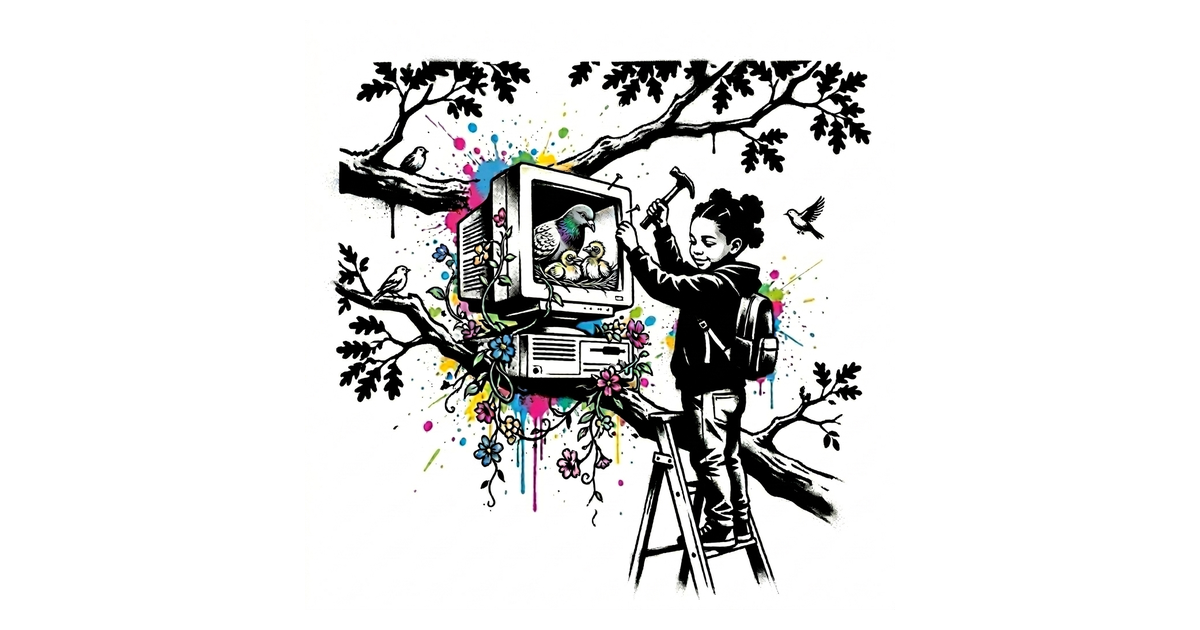
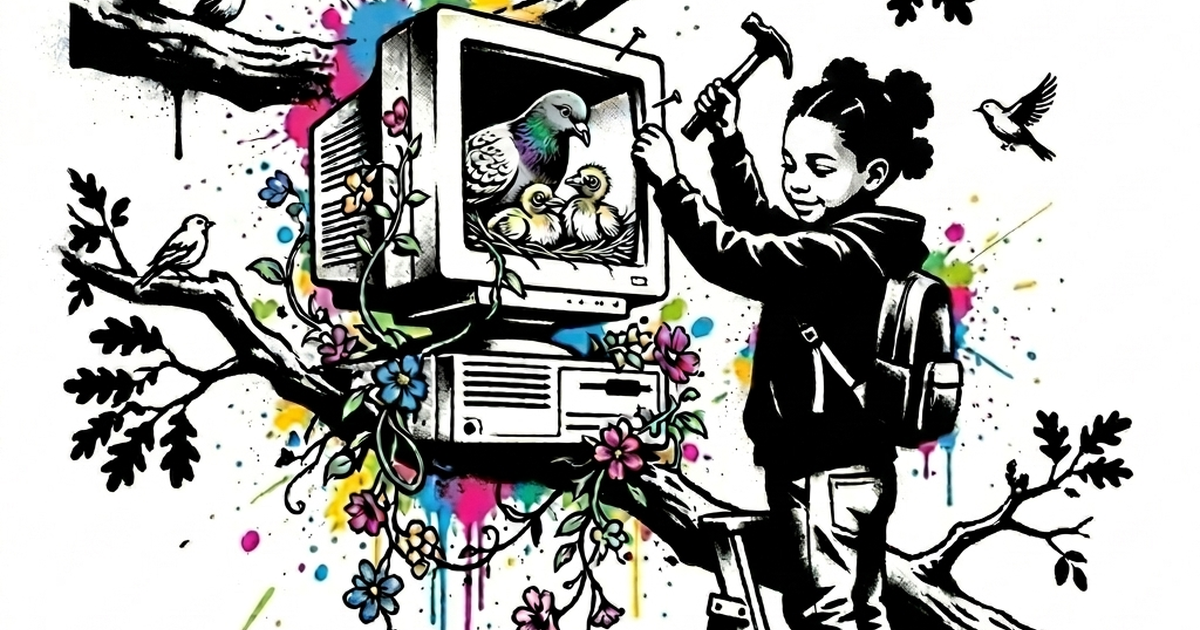
og card: fill the canvas instead of letterboxing
Switch build_og_card() to scale-to-cover: hero fills the full
1200x630 frame; tree top and ladder base are cropped. Visual
density beats letterbox white space, and the og:title text already
appears below the image on every social platform.

diff --git a/scripts/generate-icons.py b/scripts/generate-icons.py
@@ -34,7 +34,6 @@ BOUQUET_CROP = (60, 10, 540, 490)  # (left, upper, right, lower) — 480x480 squ
 WHITE_THRESHOLD = 245
 
 OG_CANVAS = (1200, 630)
-HERO_HEIGHT = 590  # leaves 20px top/bottom padding on the 630-tall canvas
 
 FAVICON_SIZES = [32, 180, 192, 512]
 ICO_SIZES = [(16, 16), (32, 32), (48, 48)]
@@ -61,18 +60,15 @@ def build_favicon_master() -> Image.Image:
 
 
 def build_og_card() -> Image.Image:
-    """Hero centered on a 1200x630 white canvas."""
-    canvas = Image.new("RGB", OG_CANVAS, (255, 255, 255))
-    hero = Image.open(ASSETS / "tech_birdhouse.png").convert("RGBA")
-    # Scale proportionally to HERO_HEIGHT
-    scale = HERO_HEIGHT / hero.height
-    new_w = int(round(hero.width * scale))
-    new_h = HERO_HEIGHT
-    hero_resized = hero.resize((new_w, new_h), Image.LANCZOS)
-    x = (OG_CANVAS[0] - new_w) // 2
-    y = (OG_CANVAS[1] - new_h) // 2
-    canvas.paste(hero_resized, (x, y), hero_resized)
-    return canvas
+    """Scale-to-cover: hero fills the 1200x630 canvas, vertical edges cropped."""
+    src = Image.open(ASSETS / "tech_birdhouse.png").convert("RGB")
+    sw, sh = src.size
+    cw, ch = OG_CANVAS
+    scale = cw / sw
+    new_h = int(round(sh * scale))
+    scaled = src.resize((cw, new_h), Image.LANCZOS)
+    top = (new_h - ch) // 2
+    return scaled.crop((0, top, cw, top + ch))
 
 
 def main() -> None:
